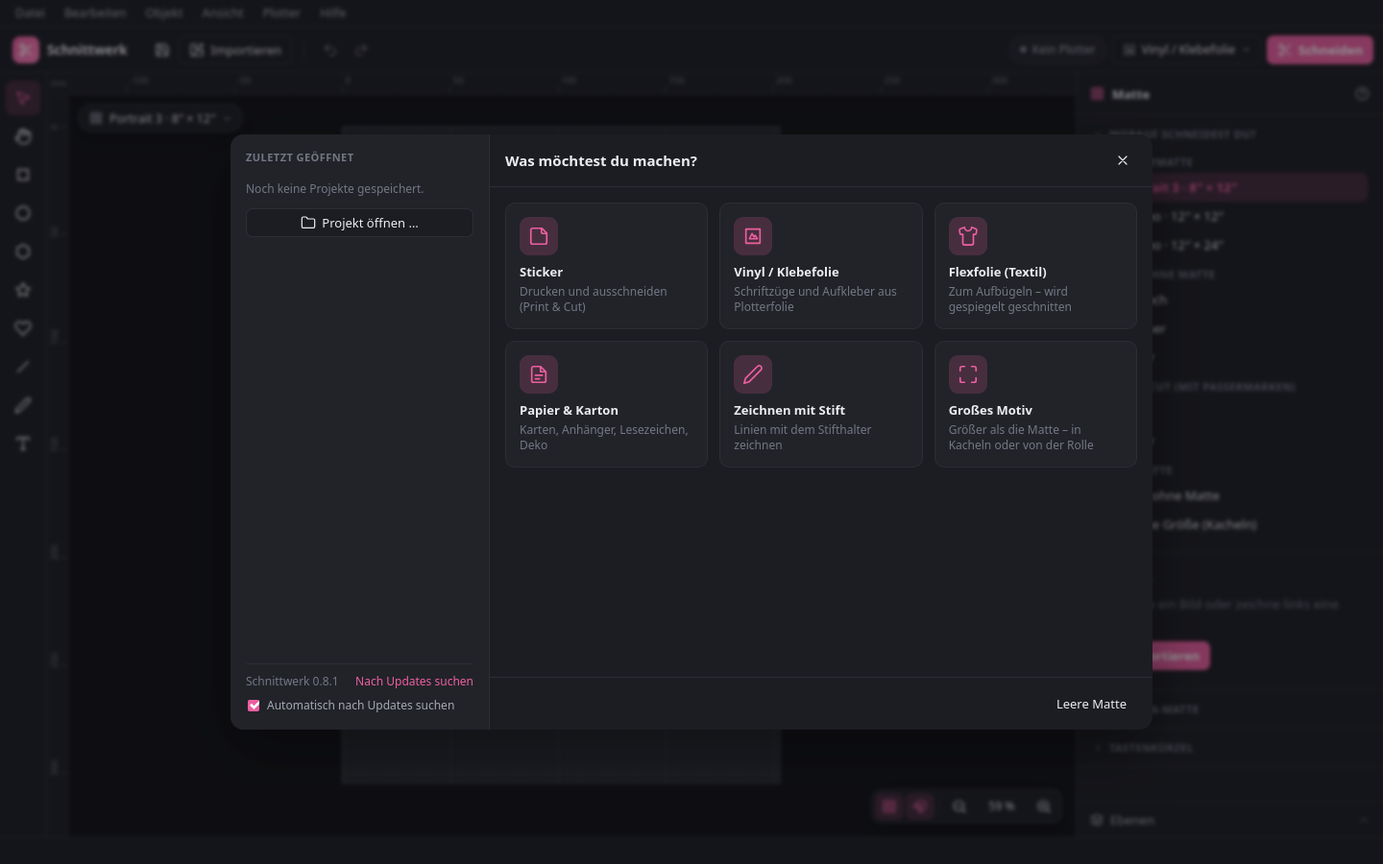
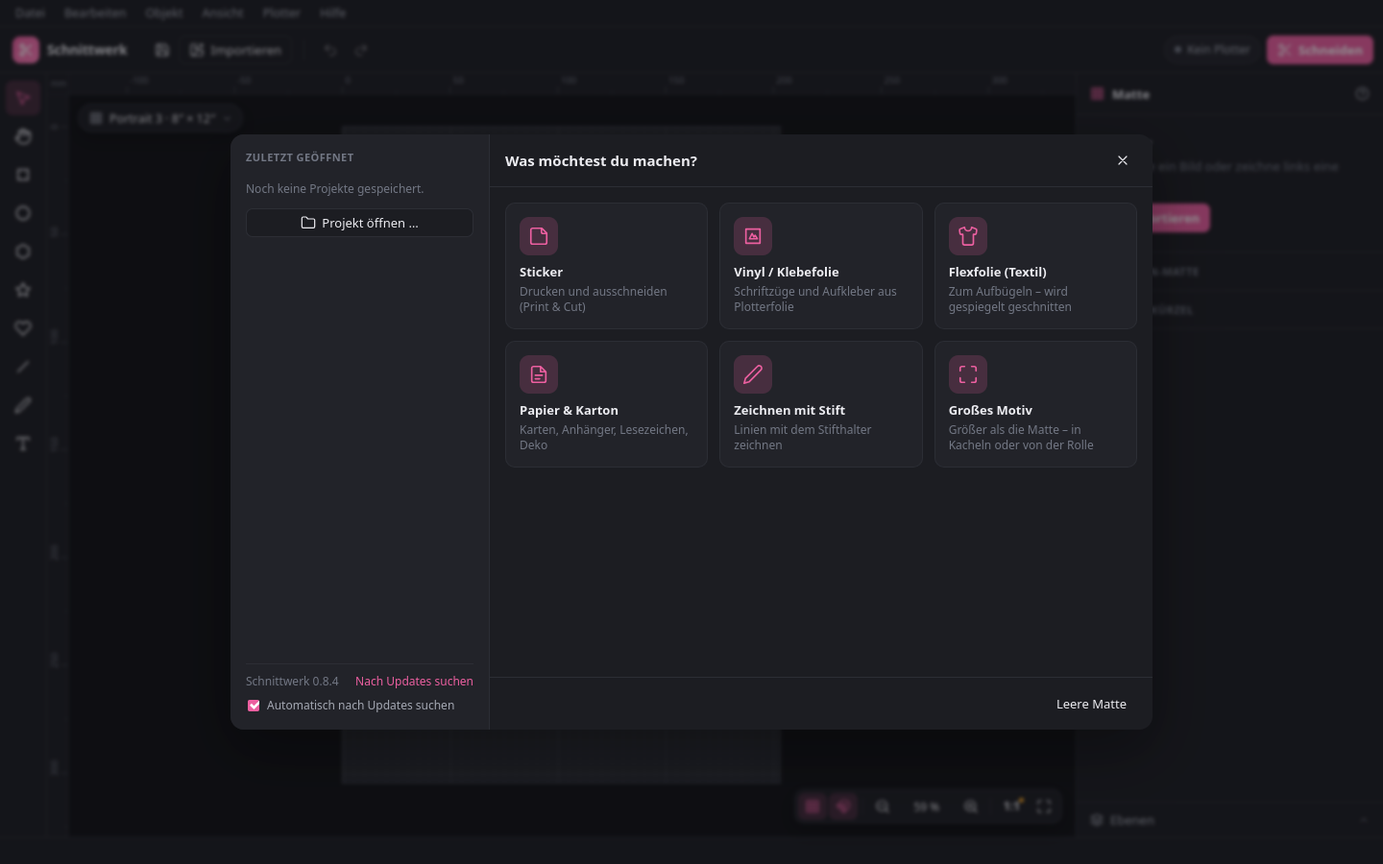
Version 0.8.5: Aufgeräumt – Material und Matte nur noch an einer Stelle
- Das Material-Etikett neben dem Schneiden-Knopf entfällt: Das Material wird im Schneiden-Dialog gewählt und für das Projekt gemerkt; eigene Materialien weiter unter Plotter → Materialien
- „Worauf schneidest du?“ auf der rechten Seite entfällt – Matte und Papier werden nur noch über den Schalter oben links auf der Arbeitsfläche gewählt
- Ohne Auswahl zeigt die rechte Seite direkt die Werkzeuge für den ganzen Bogen
- Screenshots aktualisiert

diff --git a/src/lib/fr.ts b/src/lib/fr.ts
@@ -981,7 +981,6 @@ export const FR: Record<string, string> = {
   "Schneidematte": "Tapis de découpe",
   "Papier ohne Matte": "Papier sans tapis",
   "Worauf schneidest du? Matte, Papier, Print & Cut mit Passermarken, Rolle ohne Matte oder eine eigene Größe für große Motive.": "Sur quoi découpez-vous ? Tapis, papier, Print & Cut avec repères, rouleau sans tapis ou une taille libre pour les grands motifs.",
-  "Zeigt immer, was zur Auswahl passt: die Matte, wenn nichts ausgewählt ist, sonst das Objekt. Bei Bildern geht es von hier zum Tracen oder zum Sticker. Unten liegen die Ebenen.": "Affiche toujours ce qui correspond à la sélection : le tapis si rien n'est sélectionné, sinon l'objet. Pour les images, c'est d'ici qu'on passe à la vectorisation ou au sticker. Les calques sont en bas.",
   "Einrasten am Raster und an Hilfslinien, dazu der Zoom. Ein Klick auf die Prozentzahl passt die Matte ein.": "Aimantation à la grille et aux repères, plus le zoom. Un clic sur le pourcentage ajuste le tapis.",
   "Erscheint bei Print & Cut: druckt die Seite mit Passermarken ohne Skalierung oder speichert sie als PDF.": "Apparaît avec Print & Cut : imprime la page avec repères sans mise à l'échelle ou l'enregistre en PDF.",
   "Führt Schritt für Schritt durch den Schnitt: Plotter und Matte, Material, Testschnitt an einer Stelle deiner Wahl und dann schneiden.": "Vous guide pas à pas : plotter et tapis, matériau, test de coupe à l'endroit de votre choix, puis découpe.",
@@ -1025,7 +1024,6 @@ export const FR: Record<string, string> = {
   "{n} Objekte in der Gruppe": "{n} objets dans le groupe",
   "getestet": "testé",
   "eigen": "perso",
-  "Eigene Materialien erscheinen beim Schneiden und neben dem Schneiden-Knopf zur Auswahl. Änderungen werden sofort gespeichert.": "Les matériaux personnalisés sont proposés lors de la découpe et à côté du bouton Découper. Les modifications sont enregistrées immédiatement.",
   "Materialien …": "Matériaux …",
   // ---- zoom, real size (0.8.3) ----
   "Bildschirm für 1:1": "Écran pour le 1:1",
@@ -1054,6 +1052,8 @@ export const FR: Record<string, string> = {
   "Originalgröße: 1 mm auf dem Bildschirm = 1 mm in echt (Strg+1)": "Taille réelle : 1 mm à l'écran = 1 mm en vrai (Ctrl+1)",
   "Pfeiltasten ← → stellen fein ein (mit Umschalt gröber). Jeder Bildschirm wird einzeln kalibriert.": "Les flèches ← → règlent finement (plus grossièrement avec Maj). Chaque écran est calibré séparément.",
   "{m} ist noch nicht kalibriert – 1:1 und die Prozentzahl stimmen hier nur ungefähr.": "{m} n'est pas encore calibré – le 1:1 et le pourcentage ne sont qu'approximatifs ici.",
+  "Eigene Materialien erscheinen im Schneiden-Dialog zur Auswahl. Änderungen werden sofort gespeichert.": "Les matériaux personnalisés sont proposés dans la fenêtre de découpe. Les modifications sont enregistrées immédiatement.",
+  "Zeigt immer, was zur Auswahl passt: Werkzeuge für den ganzen Bogen, wenn nichts ausgewählt ist, sonst das Objekt. Bei Bildern geht es von hier zum Tracen oder zum Sticker. Unten liegen die Ebenen.": "Affiche toujours ce qui correspond à la sélection : les outils pour toute la feuille si rien n'est sélectionné, sinon l'objet. Pour les images, c'est d'ici qu'on passe à la vectorisation ou au sticker. Les calques sont en bas.",
 };
 
 /** Messages du backend avec une partie variable : $1 … est retraduit. */
@@ -1088,7 +1088,7 @@ export const DOCS_FR: DocSection[] = [
     text: `Au démarrage, la **page d'accueil** s'ouvre (aussi en cliquant sur « Schnittwerk » en haut à gauche). Choisissez ce que vous voulez créer – stickers, vinyle, flex thermocollant, papier, stylo ou grand motif. Schnittwerk règle alors le matériau, le tapis et la page.
 
 - Chargez images et vecteurs avec **Importer** (\`Ctrl+I\`) ou glissez-les sur la zone de travail.
-- Le côté droit montre toujours ce qui correspond à la sélection. Pour une image, deux voies : **Convertir en lignes de découpe** (vectoriser) ou **En sticker**. Sans sélection, il affiche le tapis et les outils pour toute la feuille.
+- Le côté droit montre toujours ce qui correspond à la sélection. Pour une image, deux voies : **Convertir en lignes de découpe** (vectoriser) ou **En sticker**. Sans sélection, il affiche les outils pour toute la feuille.
 - **Découper** (\`Ctrl+Entrée\`) mène à la machine.
 - La **barre de menus** tout en haut contient toutes les fonctions – aussi au clavier avec \`Alt\` et la lettre soulignée. **Fichier → Paramètres** regroupe langue, thème, grille et plus.
 
@@ -1132,7 +1132,7 @@ La fenêtre guide la découpe en quatre étapes : **Préparer** (plotter, tapis,
 - **Test de coupe** (recommandé) : cliquez sur un endroit libre du matériau dans l'aperçu et découpez un petit carré. Schnittwerk demande ensuite le résultat – avec « Pas tout à fait coupé » ou « Trop profond », les valeurs sont ajustées et le test suivant se place à côté.
 - **Série de test** : une grille de carrés – une profondeur de lame par ligne, une pression par colonne. Chaque matériau a des suggestions adaptées (recommandé, réglage fin, pression seule, profondeur seule) ; les valeurs peuvent aussi être saisies. Cliquez ensuite sur le carré le plus net : profondeur et pression sont appliquées.
 - **Calques** (en bas à droite) : double-clic ou \`F2\` pour renommer, glisser pour changer l'ordre, clic droit pour dupliquer, supprimer, grouper et plus. Les groupes (p. ex. un sticker avec image et contours) se déplient et se replient.
-- **Matériau** : le matériau du projet est affiché à côté du bouton Découper et s'y change directement. Si le test de coupe était bon et que les valeurs ont été ajustées, Schnittwerk propose de les enregistrer comme matériau personnalisé. Gérez vos matériaux sous **Machine → Matériaux …**.
+- **Matériau** : choisissez le matériau dans la fenêtre de découpe ; Schnittwerk le retient pour le projet. Si le test de coupe était bon et que les valeurs ont été ajustées, Schnittwerk propose de les enregistrer comme matériau personnalisé. Gérez vos matériaux sous **Machine → Matériaux …**.
 - **Simulation** : montre à l'avance, dans l'ordre de découpe, ce que fera la machine.
 - La **durée** est estimée et devient plus précise à chaque découpe.
 - Après une **annulation** ou une erreur de connexion, **Reprendre la découpe** apparaît – la découpe reprend là où elle s'est arrêtée. Ne déplacez pas le tapis.

diff --git a/src/lib/es.ts b/src/lib/es.ts
@@ -981,7 +981,6 @@ export const ES: Record<string, string> = {
   "Schneidematte": "Base de corte",
   "Papier ohne Matte": "Papel sin base",
   "Worauf schneidest du? Matte, Papier, Print & Cut mit Passermarken, Rolle ohne Matte oder eine eigene Größe für große Motive.": "¿Sobre qué cortas? Base, papel, Print & Cut con marcas de registro, rollo sin base o un tamaño propio para diseños grandes.",
-  "Zeigt immer, was zur Auswahl passt: die Matte, wenn nichts ausgewählt ist, sonst das Objekt. Bei Bildern geht es von hier zum Tracen oder zum Sticker. Unten liegen die Ebenen.": "Muestra siempre lo que corresponde a la selección: la base si no hay nada seleccionado y, si no, el objeto. Con imágenes, desde aquí pasas a vectorizar o a pegatina. Las capas están abajo.",
   "Einrasten am Raster und an Hilfslinien, dazu der Zoom. Ein Klick auf die Prozentzahl passt die Matte ein.": "Ajuste a la cuadrícula y a las guías, además del zoom. Un clic en el porcentaje encaja la base.",
   "Erscheint bei Print & Cut: druckt die Seite mit Passermarken ohne Skalierung oder speichert sie als PDF.": "Aparece con Print & Cut: imprime la página con marcas de registro sin escalar o la guarda como PDF.",
   "Führt Schritt für Schritt durch den Schnitt: Plotter und Matte, Material, Testschnitt an einer Stelle deiner Wahl und dann schneiden.": "Te guía paso a paso: plóter y base, material, corte de prueba en el lugar que elijas y después el corte.",
@@ -1025,7 +1024,6 @@ export const ES: Record<string, string> = {
   "{n} Objekte in der Gruppe": "{n} objetos en el grupo",
   "getestet": "probado",
   "eigen": "propio",
-  "Eigene Materialien erscheinen beim Schneiden und neben dem Schneiden-Knopf zur Auswahl. Änderungen werden sofort gespeichert.": "Los materiales propios aparecen para elegir al cortar y junto al botón Cortar. Los cambios se guardan al momento.",
   "Materialien …": "Materiales …",
   // ---- zoom, real size (0.8.3) ----
   "Bildschirm für 1:1": "Pantalla para 1:1",
@@ -1054,6 +1052,8 @@ export const ES: Record<string, string> = {
   "Originalgröße: 1 mm auf dem Bildschirm = 1 mm in echt (Strg+1)": "Tamaño real: 1 mm en pantalla = 1 mm de verdad (Ctrl+1)",
   "Pfeiltasten ← → stellen fein ein (mit Umschalt gröber). Jeder Bildschirm wird einzeln kalibriert.": "Las flechas ← → ajustan con precisión (más grueso con Mayús). Cada pantalla se calibra por separado.",
   "{m} ist noch nicht kalibriert – 1:1 und die Prozentzahl stimmen hier nur ungefähr.": "{m} aún no está calibrada: aquí 1:1 y el porcentaje solo son aproximados.",
+  "Eigene Materialien erscheinen im Schneiden-Dialog zur Auswahl. Änderungen werden sofort gespeichert.": "Los materiales propios aparecen para elegir en el diálogo de corte. Los cambios se guardan al momento.",
+  "Zeigt immer, was zur Auswahl passt: Werkzeuge für den ganzen Bogen, wenn nichts ausgewählt ist, sonst das Objekt. Bei Bildern geht es von hier zum Tracen oder zum Sticker. Unten liegen die Ebenen.": "Muestra siempre lo que corresponde a la selección: herramientas para toda la hoja si no hay nada seleccionado y, si no, el objeto. Con imágenes, desde aquí pasas a vectorizar o a pegatina. Las capas están abajo.",
 };
 
 /** Mensajes del backend con una parte variable: $1 … se vuelve a traducir. */
@@ -1088,7 +1088,7 @@ export const DOCS_ES: DocSection[] = [
     text: `Al iniciar se abre la **página de inicio** (también con un clic en «Schnittwerk» arriba a la izquierda). Elige qué quieres hacer – pegatinas, vinilo, vinilo textil, papel, bolígrafo o un diseño grande. Schnittwerk ajusta entonces el material, la base y la página.
 
 - Carga imágenes y vectores con **Importar** (\`Ctrl+I\`) o arrástralos al área de trabajo.
-- La parte derecha muestra siempre lo que corresponde a la selección. Con una imagen hay dos caminos: **Convertir en líneas de corte** (vectorizar) o **Como pegatina**. Sin selección, muestra la base y herramientas para toda la hoja.
+- La parte derecha muestra siempre lo que corresponde a la selección. Con una imagen hay dos caminos: **Convertir en líneas de corte** (vectorizar) o **Como pegatina**. Sin selección, muestra herramientas para toda la hoja.
 - **Cortar** (\`Ctrl+Intro\`) te lleva al plotter.
 - La **barra de menús** de arriba del todo contiene todas las funciones – también con el teclado usando \`Alt\` y la letra subrayada. En **Archivo → Ajustes** están el idioma, el tema, la cuadrícula y más.
 
@@ -1132,7 +1132,7 @@ El diálogo te guía en cuatro pasos: **Preparar** (plóter, base, espejo), **Ma
 - **Corte de prueba** (recomendado): haz clic en un sitio libre del material en la vista previa y corta un pequeño cuadrado. Después Schnittwerk pregunta qué tal ha quedado; con «No corta del todo» o «Demasiado profundo» se ajustan los valores y la siguiente prueba va al lado.
 - **Serie de prueba**: una cuadrícula de cuadrados – una profundidad de cuchilla por fila y una presión por columna. Cada material tiene sugerencias adecuadas (recomendado, ajuste fino, solo presión, solo profundidad); los valores también se pueden escribir. Después haz clic en el cuadrado más limpio y se aplican profundidad y presión.
 - **Capas** (abajo a la derecha): doble clic o \`F2\` para renombrar, arrastrar para cambiar el orden, clic derecho para duplicar, eliminar, agrupar y más. Los grupos (p. ej. una pegatina con imagen y contornos) se pueden desplegar y plegar.
-- **Material**: el material del proyecto aparece junto al botón Cortar y se puede cambiar ahí. Si el corte de prueba salió bien y se ajustaron los valores, Schnittwerk ofrece guardarlos como material propio. Gestiona tus materiales en **Plotter → Materiales …**.
+- **Material**: elige el material en el diálogo de corte; Schnittwerk lo recuerda para el proyecto. Si el corte de prueba salió bien y se ajustaron los valores, Schnittwerk ofrece guardarlos como material propio. Gestiona tus materiales en **Plotter → Materiales …**.
 - **Simulación**: muestra de antemano, en orden de corte, lo que hará el plotter.
 - La **duración** se estima y se vuelve más precisa con cada corte.
 - Tras **cancelar** o un error de conexión aparece **Continuar el corte** – el corte sigue donde se detuvo. No muevas la base.

diff --git a/src/lib/nl.ts b/src/lib/nl.ts
@@ -981,7 +981,6 @@ export const NL: Record<string, string> = {
   "Schneidematte": "Snijmat",
   "Papier ohne Matte": "Papier zonder mat",
   "Worauf schneidest du? Matte, Papier, Print & Cut mit Passermarken, Rolle ohne Matte oder eine eigene Größe für große Motive.": "Waarop snijd je? Mat, papier, Print & Cut met registratiemarkeringen, rol zonder mat of een eigen formaat voor grote motieven.",
-  "Zeigt immer, was zur Auswahl passt: die Matte, wenn nichts ausgewählt ist, sonst das Objekt. Bei Bildern geht es von hier zum Tracen oder zum Sticker. Unten liegen die Ebenen.": "Toont altijd wat bij de selectie past: de mat als er niets geselecteerd is, anders het object. Bij afbeeldingen ga je hier verder naar overtrekken of sticker. Onderaan staan de lagen.",
   "Einrasten am Raster und an Hilfslinien, dazu der Zoom. Ein Klick auf die Prozentzahl passt die Matte ein.": "Uitlijnen op raster en hulplijnen, plus zoom. Een klik op het percentage past de mat in beeld.",
   "Erscheint bei Print & Cut: druckt die Seite mit Passermarken ohne Skalierung oder speichert sie als PDF.": "Verschijnt bij Print & Cut: print de pagina met registratiemarkeringen zonder schalen of bewaart hem als PDF.",
   "Führt Schritt für Schritt durch den Schnitt: Plotter und Matte, Material, Testschnitt an einer Stelle deiner Wahl und dann schneiden.": "Leidt je stap voor stap door het snijden: plotter en mat, materiaal, een testsnede op een plek naar keuze en dan snijden.",
@@ -1025,7 +1024,6 @@ export const NL: Record<string, string> = {
   "{n} Objekte in der Gruppe": "{n} objecten in de groep",
   "getestet": "getest",
   "eigen": "eigen",
-  "Eigene Materialien erscheinen beim Schneiden und neben dem Schneiden-Knopf zur Auswahl. Änderungen werden sofort gespeichert.": "Eigen materialen verschijnen bij het snijden en naast de snijknop. Wijzigingen worden direct opgeslagen.",
   "Materialien …": "Materialen …",
   // ---- zoom, real size (0.8.3) ----
   "Bildschirm für 1:1": "Scherm voor 1:1",
@@ -1054,6 +1052,8 @@ export const NL: Record<string, string> = {
   "Originalgröße: 1 mm auf dem Bildschirm = 1 mm in echt (Strg+1)": "Ware grootte: 1 mm op het scherm = 1 mm in het echt (Ctrl+1)",
   "Pfeiltasten ← → stellen fein ein (mit Umschalt gröber). Jeder Bildschirm wird einzeln kalibriert.": "Pijltjestoetsen ← → stellen fijn in (grover met Shift). Elk scherm wordt apart gekalibreerd.",
   "{m} ist noch nicht kalibriert – 1:1 und die Prozentzahl stimmen hier nur ungefähr.": "{m} is nog niet gekalibreerd – 1:1 en het percentage kloppen hier maar ongeveer.",
+  "Eigene Materialien erscheinen im Schneiden-Dialog zur Auswahl. Änderungen werden sofort gespeichert.": "Eigen materialen verschijnen in het snijvenster. Wijzigingen worden direct opgeslagen.",
+  "Zeigt immer, was zur Auswahl passt: Werkzeuge für den ganzen Bogen, wenn nichts ausgewählt ist, sonst das Objekt. Bei Bildern geht es von hier zum Tracen oder zum Sticker. Unten liegen die Ebenen.": "Toont altijd wat bij de selectie past: gereedschap voor het hele vel als er niets geselecteerd is, anders het object. Bij afbeeldingen ga je hier verder naar overtrekken of sticker. Onderaan staan de lagen.",
 };
 
 /** Backendmeldingen met een variabel deel: $1 … wordt opnieuw vertaald. */
@@ -1088,7 +1088,7 @@ export const DOCS_NL: DocSection[] = [
     text: `Bij het starten opent de **startpagina** (ook via een klik op ‘Schnittwerk’ linksboven). Kies wat je wilt maken – stickers, vinyl, flexfolie, papier, pen of een groot ontwerp. Schnittwerk stelt dan materiaal, mat en pagina passend in.
 
 - Laad afbeeldingen en vectoren via **Importeren** (\`Ctrl+I\`) of sleep ze naar het werkgebied.
-- De rechterkant toont altijd wat bij de selectie past. Bij een afbeelding zijn er twee wegen: **Omzetten in snijlijnen** (overtrekken) of **Als sticker**. Zonder selectie staan daar de mat en gereedschap voor het hele vel.
+- De rechterkant toont altijd wat bij de selectie past. Bij een afbeelding zijn er twee wegen: **Omzetten in snijlijnen** (overtrekken) of **Als sticker**. Zonder selectie staat daar gereedschap voor het hele vel.
 - **Snijden** (\`Ctrl+Enter\`) brengt je naar de plotter.
 - De **menubalk** helemaal bovenaan bevat alle functies – ook via het toetsenbord met \`Alt\` en de onderstreepte letter. Onder **Bestand → Instellingen** staan taal, thema, raster en meer.
 
@@ -1132,7 +1132,7 @@ Het venster leidt je in vier stappen door het snijden: **Voorbereiden** (plotter
 - **Testsnede** (aanbevolen): klik in het voorbeeld op een vrije plek van het materiaal en snijd een klein vierkant. Daarna vraagt Schnittwerk hoe het eruitziet – bij ‘Niet helemaal door’ of ‘Te diep’ worden de waarden aangepast en komt de volgende test ernaast.
 - **Testreeks**: een raster van vierkanten – per rij één mesdiepte, per kolom één druk. Voor elk materiaal zijn er passende voorstellen (aanbevolen, fijnafstemming, alleen druk, alleen mesdiepte); de waarden kun je ook zelf intypen. Klik daarna op het netste vierkant en diepte en druk worden overgenomen.
 - **Lagen** (rechtsonder): dubbelklik of \`F2\` om te hernoemen, slepen om de volgorde te wijzigen, rechtsklik voor dupliceren, verwijderen, groeperen en meer. Groepen (bijv. een sticker met afbeelding en contouren) klap je in en uit.
-- **Materiaal**: het materiaal van het project staat naast de snijknop en is daar direct te wisselen. Was de testsnede goed en zijn de waarden aangepast, dan biedt Schnittwerk aan ze als eigen materiaal op te slaan. Eigen materialen beheer je onder **Plotter → Materialen …**.
+- **Materiaal**: kies het materiaal in het snijvenster; Schnittwerk onthoudt het voor het project. Was de testsnede goed en zijn de waarden aangepast, dan biedt Schnittwerk aan ze als eigen materiaal op te slaan. Eigen materialen beheer je onder **Plotter → Materialen …**.
 - **Simulatie**: toont vooraf, in snijvolgorde, wat de plotter gaat doen.
 - De **duur** wordt geschat en wordt met elke snede nauwkeuriger.
 - Na **annuleren** of een verbindingsfout verschijnt **Verder snijden** – het snijden gaat verder waar het stopte. Verschuif de mat niet.

diff --git a/src/lib/docs.ts b/src/lib/docs.ts
@@ -15,7 +15,7 @@ export const DOCS_DE: DocSection[] = [
     text: `Beim Start öffnet sich die **Startseite** (auch über einen Klick auf „Schnittwerk“ oben links). Dort wählst du, was du machen möchtest – Sticker, Vinyl, Flexfolie, Papier, Stift oder ein großes Motiv. Schnittwerk stellt dann Material, Matte und Seite passend ein.
 
 - Bilder und Vektoren über **Importieren** (\`Strg+I\`) laden oder einfach auf die Arbeitsfläche ziehen.
-- Die rechte Seite zeigt immer, was zur Auswahl passt. Bei einem Bild gibt es dort zwei Wege: **In Schnittlinien umwandeln** (Tracen) oder **Als Sticker**. Ist nichts ausgewählt, stehen dort die Matte und Werkzeuge für den ganzen Bogen.
+- Die rechte Seite zeigt immer, was zur Auswahl passt. Bei einem Bild gibt es dort zwei Wege: **In Schnittlinien umwandeln** (Tracen) oder **Als Sticker**. Ist nichts ausgewählt, stehen dort Werkzeuge für den ganzen Bogen.
 - Mit **Schneiden** (\`Strg+Enter\`) geht es zum Plotter.
 - Die **Menüleiste** ganz oben enthält alle Funktionen – auch per Tastatur mit \`Alt\` und dem unterstrichenen Buchstaben. Unter **Datei → Einstellungen** stehen Sprache, Design, Raster und mehr.
 - Oben links auf der Arbeitsfläche wählst du, **worauf du schneidest**: Matte, Papier, Print & Cut, Rolle oder eine eigene Größe.
@@ -64,7 +64,7 @@ Der Dialog führt in vier Schritten durch den Schnitt:
 - **Schneiden**: Zusammenfassung prüfen und los.
 - **Testreihe**: ein Raster aus Quadraten – je Zeile eine Messertiefe, je Spalte ein Druck. Für jedes Material gibt es passende Vorschläge (Empfohlen, Feinabstimmung, nur Druck, nur Messertiefe); die Werte lassen sich auch selbst eintippen. Danach das sauberste Quadrat anklicken, Tiefe und Druck werden übernommen.
 - **Ebenen** (unten rechts): Doppelklick oder \`F2\` benennt um, Ziehen ändert die Reihenfolge, Rechtsklick zeigt Duplizieren, Löschen, Gruppieren und mehr. Gruppen (z. B. ein Sticker aus Bild und Konturen) lassen sich auf- und zuklappen.
-- **Material**: Neben dem Schneiden-Knopf steht das Material des Projekts und lässt sich direkt wechseln. War der Testschnitt gut und die Werte wurden angepasst, bietet Schnittwerk an, sie als eigenes Material zu speichern. Eigene Materialien verwaltest du unter **Plotter → Materialien …**.
+- **Material**: Das Material wählst du im Schneiden-Dialog; Schnittwerk merkt es sich für das Projekt. War der Testschnitt gut und die Werte wurden angepasst, bietet Schnittwerk an, sie als eigenes Material zu speichern. Eigene Materialien verwaltest du unter **Plotter → Materialien …**.
 - **Simulation**: zeigt vorher in Schnittreihenfolge, was der Plotter macht.
 - Die **Dauer** wird geschätzt und mit jedem Schnitt genauer.
 - Nach **Abbruch** oder Verbindungsfehler erscheint **Weiterschneiden** – der Schnitt geht dort weiter, wo er unterbrochen wurde. Matte dabei nicht bewegen.
@@ -146,7 +146,7 @@ export const DOCS_EN: DocSection[] = [
     text: `At start the **start page** opens (also by clicking “Schnittwerk” at the top left). Choose what you want to make – stickers, vinyl, heat transfer vinyl, paper, pen or a large design. Schnittwerk then sets material, mat and page accordingly.
 
 - Load pictures and vectors with **Import** (\`Ctrl+I\`) or drop them onto the work area.
-- The right side always shows what fits the selection. For a picture there are two ways: **Turn into cut lines** (tracing) or **As a sticker**. With nothing selected it shows the mat and tools for the whole sheet.
+- The right side always shows what fits the selection. For a picture there are two ways: **Turn into cut lines** (tracing) or **As a sticker**. With nothing selected it shows tools for the whole sheet.
 - **Cut** (\`Ctrl+Enter\`) takes you to the cutter.
 - The **menu bar** at the very top holds every function – also by keyboard with \`Alt\` and the underlined letter. **File → Settings** has language, theme, grid and more.
 - At the top left of the work area you choose **what you are cutting on**: mat, paper, Print & Cut, roll or a custom size.
@@ -193,7 +193,7 @@ The dialog guides you through the cut in four steps: **Prepare** (cutter, mat, m
 - **Test cut** (recommended): click a free spot of the material in the preview and cut a small square. Schnittwerk then asks how it looks – with “Not quite through” or “Too deep” the values are adjusted and the next test goes next to it.
 - **Test series**: a grid of squares – one blade depth per row, one force per column. Each material has suitable suggestions (recommended, fine tuning, force only, blade depth only); the values can also be typed in. Then click the cleanest square and depth and force are applied.
 - **Layers** (bottom right): double-click or \`F2\` renames, dragging changes the order, right-click offers duplicate, delete, group and more. Groups (e.g. a sticker made of picture and outlines) can be expanded and collapsed.
-- **Material**: the project's material is shown next to the cut button and can be changed there. If the test cut was good and the values were adjusted, Schnittwerk offers to save them as your own material. Manage your own materials under **Cutter → Materials …**.
+- **Material**: choose the material in the cut dialog; Schnittwerk remembers it for the project. If the test cut was good and the values were adjusted, Schnittwerk offers to save them as your own material. Manage your own materials under **Cutter → Materials …**.
 - **Simulation**: shows beforehand, in cutting order, what the cutter will do.
 - The **duration** is estimated and gets more accurate with every cut.
 - After **cancelling** or a connection error, **Continue cutting** appears – the cut resumes where it stopped. Do not move the mat.

diff --git a/src/lib/en.ts b/src/lib/en.ts
@@ -979,7 +979,6 @@ export const EN: Record<string, string> = {
   "Schneidematte": "Cutting mat",
   "Papier ohne Matte": "Paper without mat",
   "Worauf schneidest du? Matte, Papier, Print & Cut mit Passermarken, Rolle ohne Matte oder eine eigene Größe für große Motive.": "What are you cutting on? Mat, paper, Print & Cut with registration marks, roll without mat or a custom size for large designs.",
-  "Zeigt immer, was zur Auswahl passt: die Matte, wenn nichts ausgewählt ist, sonst das Objekt. Bei Bildern geht es von hier zum Tracen oder zum Sticker. Unten liegen die Ebenen.": "Always shows what fits the selection: the mat when nothing is selected, otherwise the object. For pictures, this is where you go on to tracing or stickers. The layers are at the bottom.",
   "Einrasten am Raster und an Hilfslinien, dazu der Zoom. Ein Klick auf die Prozentzahl passt die Matte ein.": "Snapping to the grid and guides, plus zoom. Clicking the percentage fits the mat.",
   "Erscheint bei Print & Cut: druckt die Seite mit Passermarken ohne Skalierung oder speichert sie als PDF.": "Appears with Print & Cut: prints the page with registration marks without scaling or saves it as a PDF.",
   "Führt Schritt für Schritt durch den Schnitt: Plotter und Matte, Material, Testschnitt an einer Stelle deiner Wahl und dann schneiden.": "Guides you through the cut step by step: cutter and mat, material, a test cut at a spot of your choice, then cut.",
@@ -1023,7 +1022,6 @@ export const EN: Record<string, string> = {
   "{n} Objekte in der Gruppe": "{n} objects in the group",
   "getestet": "tested",
   "eigen": "own",
-  "Eigene Materialien erscheinen beim Schneiden und neben dem Schneiden-Knopf zur Auswahl. Änderungen werden sofort gespeichert.": "Own materials appear for selection when cutting and next to the cut button. Changes are saved right away.",
   "Materialien …": "Materials …",
   // ---- zoom, real size (0.8.3) ----
   "Bildschirm für 1:1": "Screen for 1:1",
@@ -1052,6 +1050,8 @@ export const EN: Record<string, string> = {
   "Originalgröße: 1 mm auf dem Bildschirm = 1 mm in echt (Strg+1)": "Actual size: 1 mm on screen = 1 mm in reality (Ctrl+1)",
   "Pfeiltasten ← → stellen fein ein (mit Umschalt gröber). Jeder Bildschirm wird einzeln kalibriert.": "Arrow keys ← → fine-tune (coarser with Shift). Each screen is calibrated separately.",
   "{m} ist noch nicht kalibriert – 1:1 und die Prozentzahl stimmen hier nur ungefähr.": "{m} is not calibrated yet – 1:1 and the percentage are only approximate here.",
+  "Eigene Materialien erscheinen im Schneiden-Dialog zur Auswahl. Änderungen werden sofort gespeichert.": "Own materials appear for selection in the cut dialog. Changes are saved right away.",
+  "Zeigt immer, was zur Auswahl passt: Werkzeuge für den ganzen Bogen, wenn nichts ausgewählt ist, sonst das Objekt. Bei Bildern geht es von hier zum Tracen oder zum Sticker. Unten liegen die Ebenen.": "Always shows what fits the selection: tools for the whole sheet when nothing is selected, otherwise the object. For pictures, this is where you go on to tracing or stickers. The layers are at the bottom.",
 };
 
 /** Backend messages with a variable part: $1 … is translated again. */

diff --git a/src/lib/tour.svelte.ts b/src/lib/tour.svelte.ts
@@ -27,7 +27,7 @@ export const TOUR_STEPS: TourStep[] = [
   { target: "tools", title: "Werkzeuge", text: "Auswählen, Formen, Linien, Freihand und Text. Rechtsklick auf ein Objekt zeigt die häufigsten Aktionen." },
   { target: "undo", title: "Rückgängig", text: "Macht Schritte rückgängig oder wiederholt sie. Der Tooltip nennt den Schritt, zum Beispiel „Rückgängig: Verschieben“." },
   { target: "area", title: "Matte und Papier", text: "Worauf schneidest du? Matte, Papier, Print & Cut mit Passermarken, Rolle ohne Matte oder eine eigene Größe für große Motive." },
-  { target: "tabs", title: "Rechte Seite", text: "Zeigt immer, was zur Auswahl passt: die Matte, wenn nichts ausgewählt ist, sonst das Objekt. Bei Bildern geht es von hier zum Tracen oder zum Sticker. Unten liegen die Ebenen." },
+  { target: "tabs", title: "Rechte Seite", text: "Zeigt immer, was zur Auswahl passt: Werkzeuge für den ganzen Bogen, wenn nichts ausgewählt ist, sonst das Objekt. Bei Bildern geht es von hier zum Tracen oder zum Sticker. Unten liegen die Ebenen." },
   { target: "view", title: "Ansicht", text: "Einrasten am Raster und an Hilfslinien, dazu der Zoom. Ein Klick auf die Prozentzahl passt die Matte ein." },
   { target: "device", title: "Plotter", text: "Zeigt, ob der Plotter verbunden ist. Hier verbindest du per Bluetooth und siehst den Messer-Zähler." },
   { target: "print", title: "Drucken", text: "Erscheint bei Print & Cut: druckt die Seite mit Passermarken ohne Skalierung oder speichert sie als PDF." },

diff --git a/src/lib/components/SurfacePicker.svelte b/src/lib/components/SurfacePicker.svelte
@@ -1,13 +1,10 @@
 <script lang="ts">
   // "What am I working on?" – mat, paper, print & cut page, roll or a free
-  // size, in one place. `chip` = button with a popover (on the canvas),
-  // `inline` = the full list (side panel when nothing is selected).
+  // size, in one place: a chip with a popover at the top left of the canvas.
   import { customMat, editor, matKindOf, MATS, PAGES, rollMat, ROLL_MAX, type PageName } from "../editor.svelte";
   import { fmt } from "../geometry";
   import { t } from "../i18n.svelte";
   import Icon from "./Icon.svelte";
-
-  let { variant = "chip" }: { variant?: "chip" | "inline" } = $props();
 
   let open = $state(false);
   let root = $state<HTMLElement>();
@@ -101,10 +98,7 @@
   {/each}
 {/snippet}
 
-{#if variant === "inline"}
-  <div class="inline">{@render list()}</div>
-{:else}
-  <div class="chip-wrap" bind:this={root} data-tour="area">
+<div class="chip-wrap" bind:this={root} data-tour="area">
     <button class="chip" class:open onclick={() => (open = !open)} title={t("Worauf arbeitest du? Matte, Papier, Print & Cut oder Rolle")} aria-haspopup="menu" aria-expanded={open}>
       <Icon name={icon} size={14} />
       <span>{label}</span>
@@ -114,7 +108,6 @@
       <div class="pop" role="menu">{@render list()}</div>
     {/if}
   </div>
-{/if}
 
 <style>
   .chip-wrap {
@@ -171,7 +164,6 @@
     letter-spacing: 0.04em;
     text-transform: uppercase;
   }
-  .inline .group-title:first-child,
   .pop .group-title:first-child {
     padding-top: 2px;
   }

diff --git a/src/lib/components/PagePanel.svelte b/src/lib/components/PagePanel.svelte
@@ -1,6 +1,6 @@
 <script lang="ts">
-  // Side panel when nothing is selected: the work surface and tools that act
-  // on the whole sheet.
+  // Side panel when nothing is selected: tools that act on the whole sheet.
+  // (Mat / paper is chosen with the switch at the top left of the canvas.)
   import { addWeeding, frameSelection, nestSelection } from "../actions";
   import { editor } from "../editor.svelte";
   import { t } from "../i18n.svelte";
@@ -8,7 +8,6 @@
   import Icon from "./Icon.svelte";
   import PixScanSection from "./PixScanSection.svelte";
   import Section from "./Section.svelte";
-  import SurfacePicker from "./SurfacePicker.svelte";
 
   const visible = $derived(editor.objects.filter((o) => o.visible && !o.locked));
   const hasPaths = $derived(visible.some((o) => o.type === "path" && o.cut !== false));
@@ -26,10 +25,6 @@
     }
   }
 </script>
-
-<Section id="surface" title={t("Worauf schneidest du?")}>
-  <SurfacePicker variant="inline" />
-</Section>
 
 {#if visible.length}
   <Section id="sheet" title={t("Für den ganzen Bogen")}>

diff --git a/src/App.svelte b/src/App.svelte
@@ -26,7 +26,6 @@
   import TemplatesDialog from "./lib/components/TemplatesDialog.svelte";
   import MenuBar from "./lib/components/MenuBar.svelte";
   import SurfacePicker from "./lib/components/SurfacePicker.svelte";
-  import MaterialChip from "./lib/components/MaterialChip.svelte";
   import SettingsDialog from "./lib/components/SettingsDialog.svelte";
   import AboutDialog from "./lib/components/AboutDialog.svelte";
   import MaterialsDialog from "./lib/components/MaterialsDialog.svelte";
@@ -262,7 +261,6 @@
       <button class="btn update" title={t("Schnittwerk {v} ist verfügbar", { v: updater.info?.latest ?? "" })} onclick={() => (updater.dialogOpen = true)}><Icon name="download" /> Update</button>
     {/if}
     <DeviceMenu />
-    <MaterialChip />
     {#if editor.printCut.enabled}
       <button class="btn outline" data-tour="print" title={t("Für Print & Cut drucken (Strg+P)")} onclick={() => (plotter.printOpen = true)}><Icon name="printer" /> {t("Drucken")}</button>
     {/if}

diff --git a/src/lib/components/MaterialsDialog.svelte b/src/lib/components/MaterialsDialog.svelte
@@ -17,7 +17,7 @@
       <button class="btn icon" onclick={close} aria-label={t("Schließen")}><Icon name="x" /></button>
     </header>
     <div class="body">
-      <p class="intro">{t("Eigene Materialien erscheinen beim Schneiden und neben dem Schneiden-Knopf zur Auswahl. Änderungen werden sofort gespeichert.")}</p>
+      <p class="intro">{t("Eigene Materialien erscheinen im Schneiden-Dialog zur Auswahl. Änderungen werden sofort gespeichert.")}</p>
       <MaterialsEditor />
     </div>
     <footer>

diff --git a/README.md b/README.md
@@ -123,7 +123,7 @@ wird nur die öffentliche Release-Liste von GitHub abgerufen.
   wählt Material, Matte oder Rolle, Druckseite und passende Vorlage; zeigt zuletzt geöffnete Projekte.
   Ein Klick auf „Schnittwerk“ oben links führt jederzeit zurück zu dieser Startseite.
   Importierte Bilder öffnen je nach Projektart den Sticker-Assistenten oder das Tracen
-- Rechte Seite folgt der Auswahl: ohne Auswahl Matte und Werkzeuge für den ganzen Bogen, bei Bildern
+- Rechte Seite folgt der Auswahl: ohne Auswahl Werkzeuge für den ganzen Bogen, bei Bildern
   zwei Wege (in Schnittlinien umwandeln oder Sticker), danach Vorschläge für den nächsten Schritt;
   Ebenen einklappbar darunter
 - Matte, Papier, Print & Cut, Rolle oder eigene Größe über einen Schalter oben links auf der Arbeitsfläche
@@ -171,8 +171,8 @@ wird nur die öffentliche Release-Liste von GitHub abgerufen.
 ### Schneiden
 - USB und Bluetooth LE (mit automatischem Wiederverbinden)
 - Materialbibliothek mit Vorlagen und eigenen Profilen: Messertiefe (AutoBlade), Druck,
-  Geschwindigkeit, Durchgänge, Überschnitt; eigene Materialien unter Plotter → Materialien,
-  Material des Projekts neben dem Schneiden-Knopf, gute Testwerte direkt als Material speichern
+  Geschwindigkeit, Durchgänge, Überschnitt; eigene Materialien unter Plotter → Materialien; gute Testwerte direkt als
+  Material speichern
 - Optimierte Reihenfolge: innen vor außen, kurze Leerfahrten
 - Vorschau der Schnittreihenfolge mit animierter Simulation, Fortschritt, Pause und Abbrechen
 - Benachrichtigung und Ton, wenn ein Schnitt fertig ist
